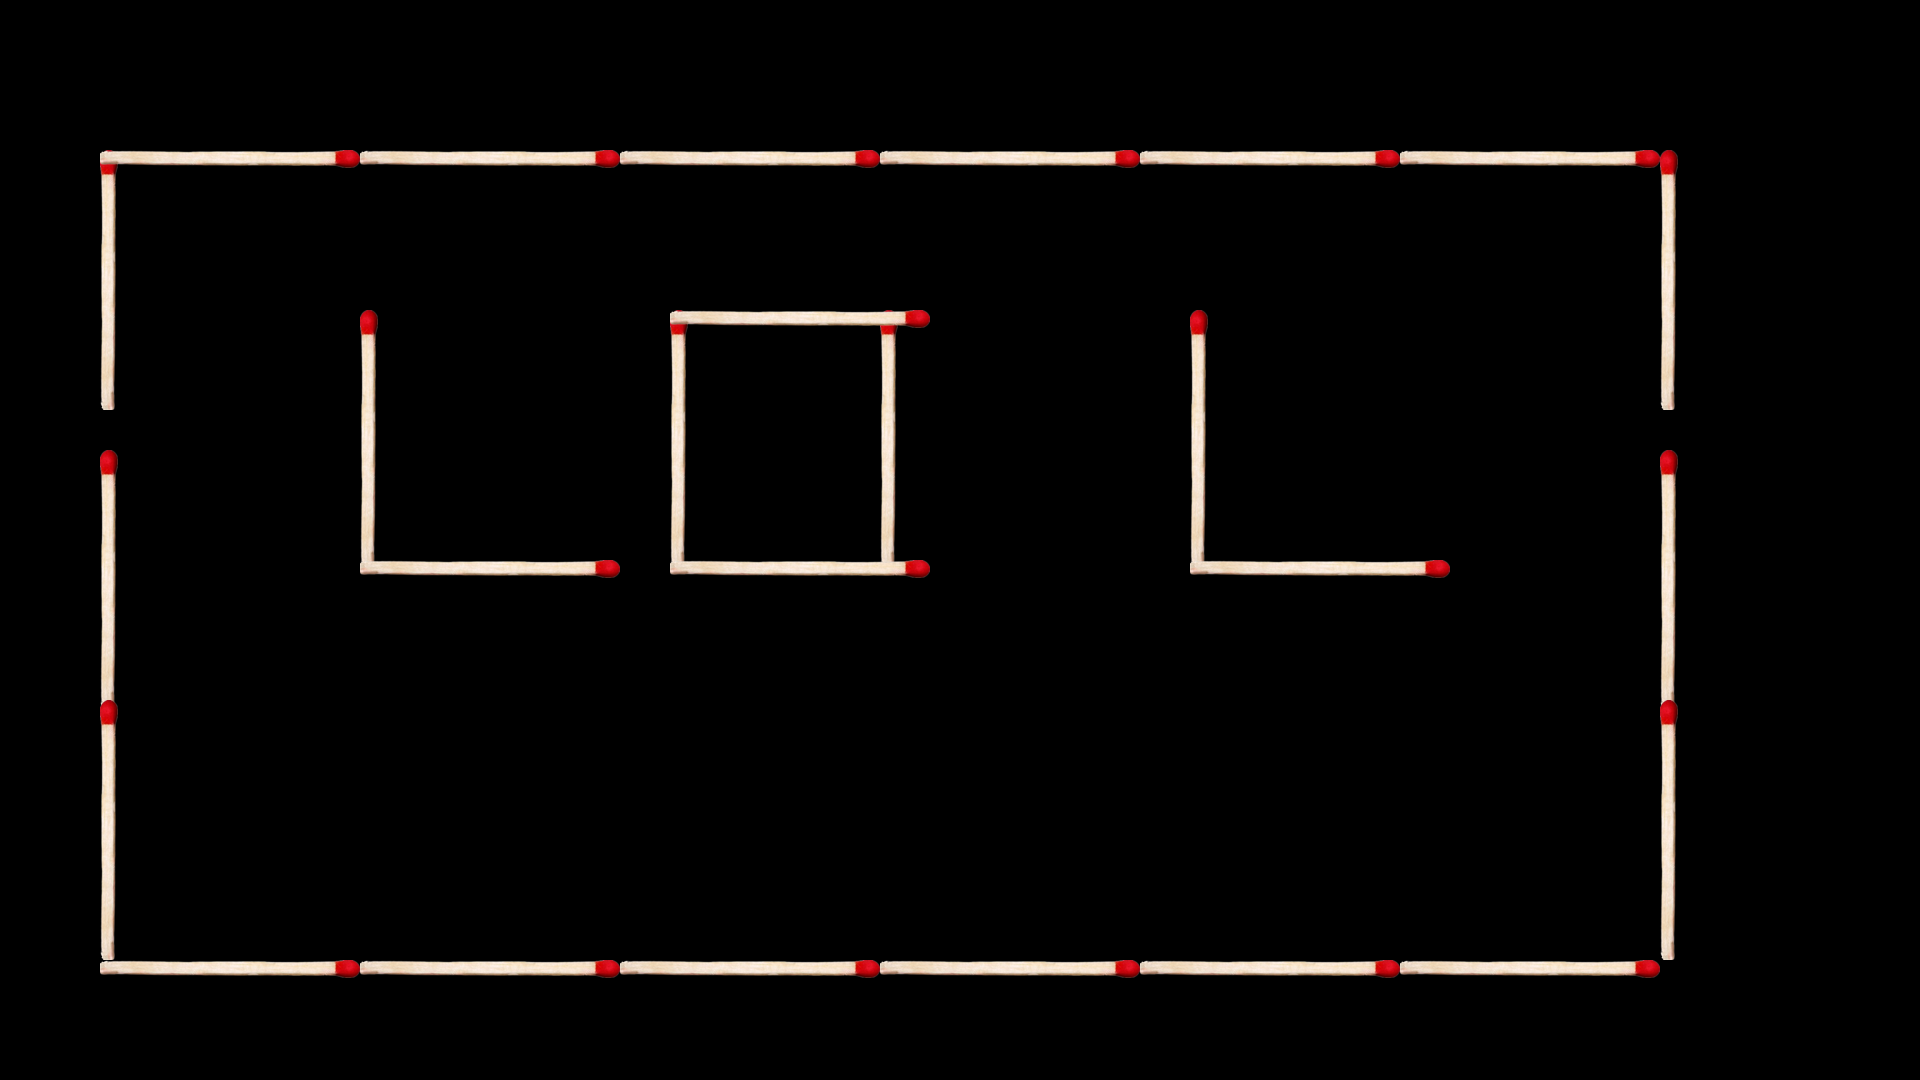
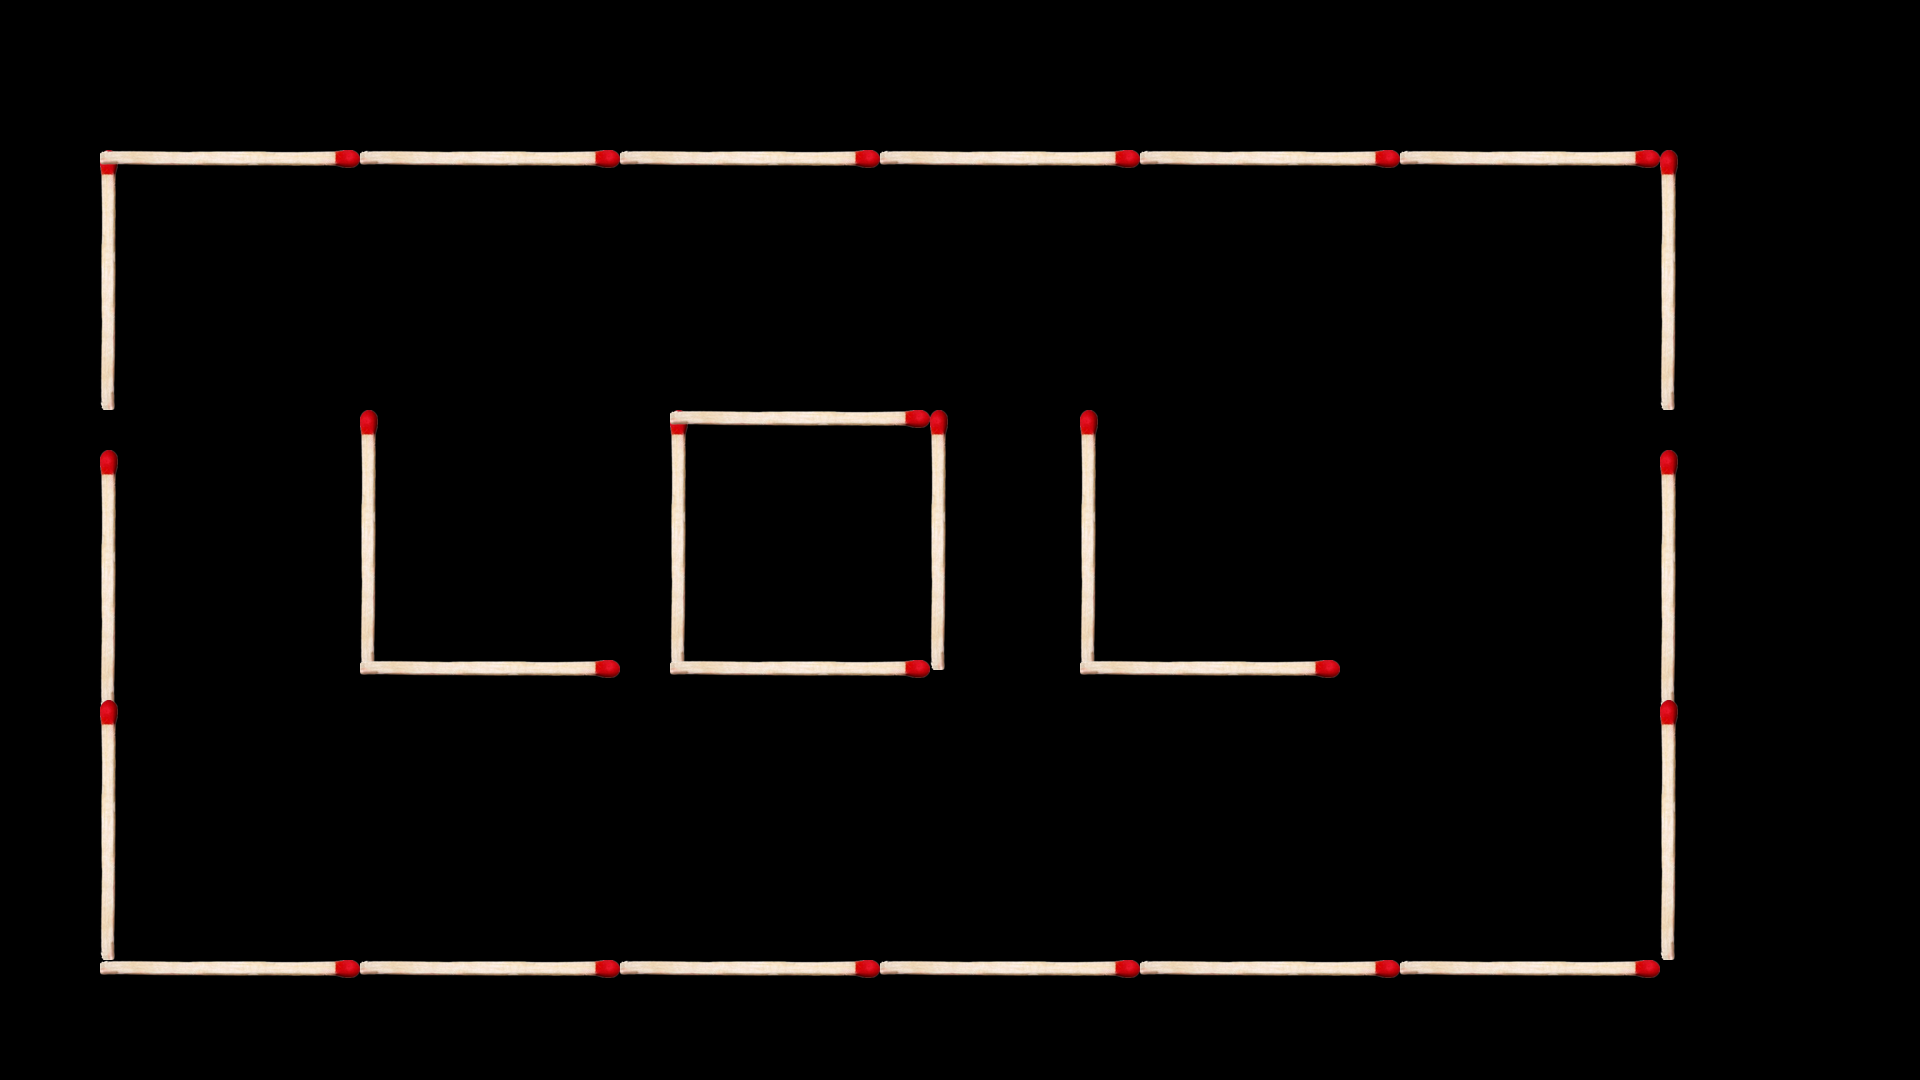
new shapes of lucifers

diff --git a/lucifer_hv.py b/lucifer_hv.py
@@ -3,38 +3,39 @@ from PIL import Image, ImageDraw, ImageFont
 from screeninfo import get_monitors
 from random import randint
 
-L=[]
-J=[]
+
 def check_distance_x (L,x):
     for element in L:
-        if abs(x-element)<50:
+        if abs(x-element)<20:
             return False
     return True
 
 def check_distance_y(J,y):
     for coordinate in J:
-        if abs(y-coordinate)<50:
+        if abs(y-coordinate)<20:
             return False
     return True
 
 
-nb_allumettes=randint(3,10)
-nb_img=2
+nb_allumettes=randint(3,15)
+nb_img=25
 
 for i in range (nb_img):
+    L = []
+    J = []
     img = Image.new(mode="RGB", size=(get_monitors()[0].width, get_monitors()[0].height), color=(0, 0, 0))
     for j in range(nb_allumettes):
         foreground = Image.open("allumette.png").rotate(90, expand=True)
-        x = randint(100,900)
+        x = randint(50,900)
         while not check_distance_x(L,x):
-            x = randint(100, 900)
+            x = randint(50, 900)
         L.append(x)
         y = 100
         img.paste(foreground, (x, y), foreground)
         foreground = Image.open("allumette.png").rotate(90, expand=True)
-        x = randint(1000,1500)
+        x = randint(1000,1900)
         while not check_distance_x(L, x):
-            x = randint(1000,1500)
+            x = randint(1000,1900)
         L.append(x)
         y = 550
         img.paste(foreground, (x, y), foreground)
@@ -52,7 +53,6 @@ for i in range (nb_img):
             y = randint(100,500)
         J.append(y)
         img.paste(foreground, (x, y), foreground)
-img.save(f'img/lucifer_hv_{i}.png')
-print(f"Image n°{i}")
+    img.save(f'img/horiz_vert/lucifer_hv_{i}.png')
 
 

diff --git a/lucifer_shape_lol.py b/lucifer_shape_lol.py
@@ -49,23 +49,23 @@ img.paste(foreground, (x_5, y_5), foreground)
 
 #Letters :
 foreground = Image.open("allumette.png").rotate(90, expand=True)
-img.paste(foreground, (x_1, y_1), foreground)
-img.paste(foreground, (x_2+epsilon, y_1), foreground)
-img.paste(foreground, (x_3, y_1), foreground)
-img.paste(foreground, (x_4+epsilon, y_1), foreground)
+img.paste(foreground, (x_1, y_1+100), foreground)
+img.paste(foreground, (x_2+epsilon, y_1+100), foreground)
+img.paste(foreground, (x_3+50, y_1+100), foreground)
+img.paste(foreground, (x_3+200, y_1+100), foreground)
 
 
 
 foreground = Image.open("allumette.png")
-img.paste(foreground, (x_1, y_3), foreground)
-img.paste(foreground, (x_2+epsilon, y_3), foreground)
-img.paste(foreground, (x_4+epsilon, y_3), foreground)
-img.paste(foreground, (x_2+epsilon, y_1), foreground)
+img.paste(foreground, (x_1, y_3+100), foreground)
+img.paste(foreground, (x_2+epsilon, y_3+100), foreground)
+img.paste(foreground, (x_3+200, y_3+100), foreground)
+img.paste(foreground, (x_2+epsilon, y_1+100), foreground)
 
 
 
 img.show()
 
-img.save(f'img/lucifer_shape_lol.png')
+img.save(f'img/shapes/lucifer_shape_lol.png')
 
 

diff --git a/lucifer_aligned.py b/lucifer_aligned.py
@@ -3,24 +3,27 @@ from PIL import Image, ImageDraw, ImageFont
 from screeninfo import get_monitors
 from random import randint
 
-L=[]
-def check_distance (L,x):
+
+def check_distance(L, x):
     for element in L:
-        if abs(x-element)<50:
+        if abs(x - element) < 20:
             return False
     return True
 
-nb_allumettes=randint(5,30)
-nb_img = 2
-for i in range (nb_img):
+
+nb_allumettes = randint(5,30)
+nb_img = 25
+for i in range(nb_img):
+    L = []
     img = Image.new(mode="RGB", size=(get_monitors()[0].width, get_monitors()[0].height), color=(0, 0, 0))
     for j in range(nb_allumettes):
         foreground = Image.open("allumette.png").rotate(90, expand=True)
-        x = randint(100, 1600)
-        while not check_distance(L,x):
-            x = randint(100, 1600)
+        x = randint(50, 1900)
+        while not check_distance(L, x):
+            print(j)
+            x = randint(50, 1900)
         L.append(x)
         y = 550
         img.paste(foreground, (x, y), foreground)
-    img.save(f'img/lucifer_line_{i}.png')
-print(f"Image n°{i}")
+    img.save(f'img/lines/lucifer_line_{i}.png')
+

diff --git a/lucifer_shape_love.py b/lucifer_shape_love.py
@@ -67,6 +67,6 @@ img.paste(foreground, (x_3, y_1), foreground)
 
 img.show()
 
-img.save(f'img/lucifer_shape_love.png')
+img.save(f'img/shapes/lucifer_shape_love.png')
 
 
